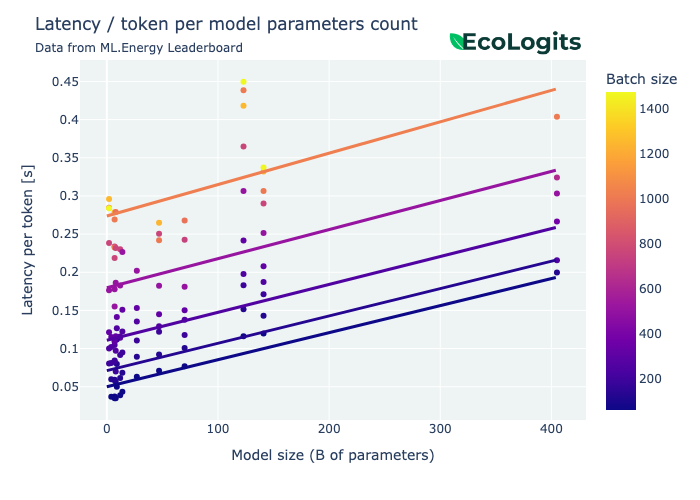
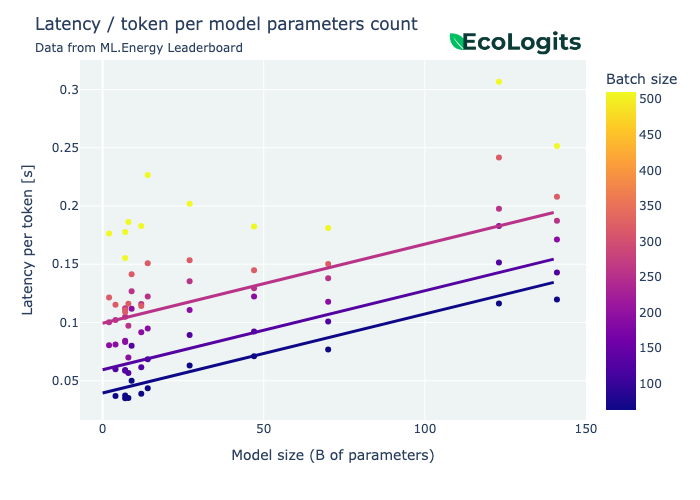
docs: update with new models and filtering

diff --git a/docs/methodology/llm_inference.md b/docs/methodology/llm_inference.md
@@ -28,7 +28,7 @@ By leveraging the open dataset from the [ML.ENERGY Leaderboard](https://ml.energ
 
 ??? info "On the ML.ENERGY dataset filtering"
     
-    We have filtered the dataset to keep only the benchmark on NVIDIA H100 80GB HBM3 GPUs. 
+    In order to have relevant data and avoid outlies, we have filtered the dataset to keep only (1) the benchmark on NVIDIA H100 80GB HBM3 GPUs, (2) batch sizes no larger than 512 and (3) models no larger than 200B parameters. 
 
 We approximate energy consumption per output token as a function of the number of activate parameters, denoted as $P_{\text{active}}$, and the batch size, denoted as $B$. 
 
@@ -46,22 +46,20 @@ We approximate energy consumption per output token as a function of the number o
 In order to being consistent with physics (and fit the data) while staying relatively simple, we opted for a function of the form 
 
 $$ 
-f_E(P_{\text{active}}, B) = \alpha P_{\text{active}} + \beta B + \gamma P_{\text{active}} B + \delta B^2 + \eta, 
+f_E(P_{\text{active}}, B) = \alpha e^{\beta B} P_{\text{active}} + \gamma
 $$
 
-that is a function that is **linear** with $P_{\text{active}}$ and **quadratic** with $B$. We fitted such a model with the data, and got 
+that is a function that is **linear** with $P_{\text{active}}$ and **exponential** with $B$. We fitted such a model with the data, and got 
 
-- $\alpha = 4.36 \times 10^{-6}$, 
-- $\beta = -2.93 \times 10^{-7}$, 
-- $\gamma = -2.43 \times 10^{-9}$, 
-- $\delta = 2.43 \times 10^{-10}$, 
-- $\eta = 6.02 \times 10^{-5}$.
+- $\alpha = 6.47 \times 10^{-6}$, 
+- $\beta = -2.60 \times 10^{-3}$, 
+- $\gamma = 1.04 \times 10^{-5}$, 
 
 The result is illustrated below. 
 
 <figure markdown="span">
   ![Figure: Energy consumption per output token vs. number of active parameters ](../assets/methodology/llm/figure_energy.png)
-  <figcaption>Figure: Energy consumption (in Wh) per output token vs. number of active parameters (in billions). The points are the datapoints from the ML.ENERGY leaderboard, and the lines are the result of our regression for fixed batch sizes (64, 128, 256, 512, 1024).</figcaption>
+  <figcaption>Figure: Energy consumption (in Wh) per output token vs. number of active parameters (in billions). The points are the datapoints from the ML.ENERGY leaderboard, and the lines are the result of our regression for fixed batch sizes (64, 128, 256).</figcaption>
 </figure>
 
 !!! warning "From now on, we consider that the batch size fixed to $B = 64$."
@@ -73,7 +71,7 @@ $$
 E_{\text{GPU}}(\#T_{\text{out}}, P_{\text{active}}) = \#T_{\text{out}} \times f_E(P_{\text{active}}, 64), 
 $$
 
-where $f_E$ is the linear-quadratic model cited above. 
+where $f_E$ is the linear-exponential model cited above. 
 
 If the model requires multiple GPUs to be loaded into VRAM, the energy consumption $E_{\text{GPU}}$ should be multiplied by the number of required GPUs, $\text{GPU}$ (see [below](#complete-server-energy-consumption)).
 
@@ -96,19 +94,24 @@ For a typical high-end GPU-accelerated cloud instance, we use $W_{\text{server} 
 
 The generation latency, $\Delta T$, is the duration of the inference measured on the server and is independent of networking latency. We estimate the generation latency using the [ML.ENERGY Leaderboard](https://ml.energy/leaderboard/?__theme=light) dataset with the previously mentioned filters applied.
 
-We fit a function $f_L(P_{\text{active}}, B)$ (of the same form as $f_E$ above) on the dataset, and find 
 
-- $\alpha = 3.50 \times 10^{-4}$, 
-- $\beta = 3.53 \times 10^{-4}$, 
-- $\gamma = 5.91 \times 10^{-8}$, 
-- $\delta = -1.10 \times 10^{-7}$, 
-- $\eta = 0.027$.
+Again, in order to being consistent with physics (and fit the data) while staying relatively simple, we opted for a function of the form 
+
+$$ 
+f_L(P_{\text{active}}, B) = \alpha P_{\text{active}} + \beta B + \gamma
+$$
+
+We find the values : 
+
+- $\alpha = 6.78 \times 10^{-4}$, 
+- $\beta = 3.12 \times 10^{-4}$, 
+- $\gamma = 1.94 \times 10^{-2}$, 
 
 The result is illustrated below. 
 
 <figure markdown="span">
   ![Figure: Latency per output token vs. number of active parameters ](../assets/methodology/llm/figure_latency.png)
-  <figcaption>Figure: Latency (in s) per output token vs. number of active parameters (in billions). The points are the datapoints from the ML.ENERGY leaderboard, and the lines are the result of our regression for fixed batch sizes (64, 128, 256, 512, 1024)</figcaption>
+  <figcaption>Figure: Latency (in s) per output token vs. number of active parameters (in billions). The points are the datapoints from the ML.ENERGY leaderboard, and the lines are the result of our regression for fixed batch sizes (64, 128, 256)</figcaption>
 </figure>
 
 Using these values, we can estimate the generation latency for the entire request given the number of output tokens, $\#T_{\text{out}}$, and the number of active parameters, $P_{\text{active}}$. When possible, we also measure the request latency, $\Delta T_{\text{request}}$, and use it as the maximum bound for the generation latency:
